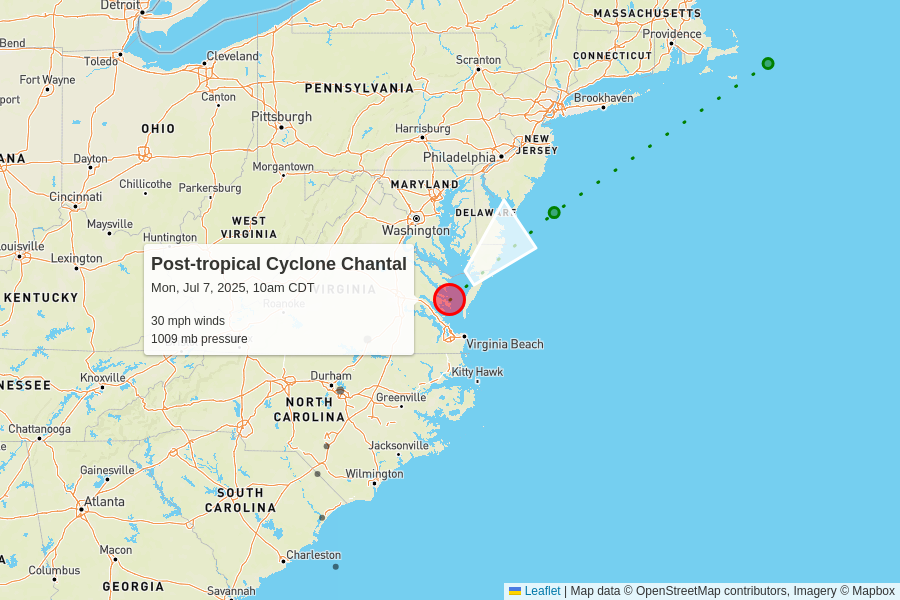
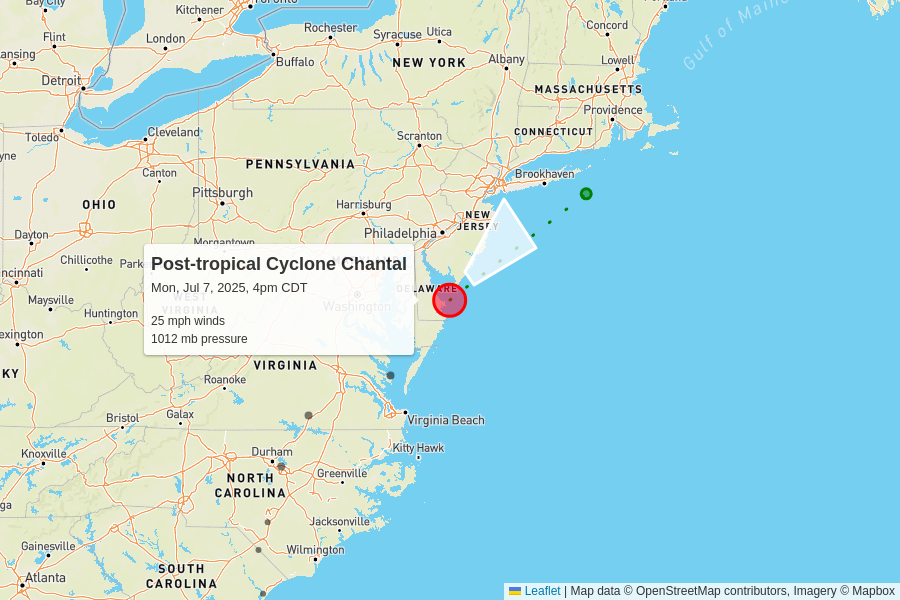
automatic update

diff --git a/docs/index.html b/docs/index.html
@@ -102,7 +102,7 @@
         <td colspan="6" class="storm category-0" >
           <h2>
             Post-tropical Cyclone Chantal
-            <p class="updated">last updated <span data-time>2025-07-07T15:00:00.000Z</span></p>
+            <p class="updated">last updated <span data-time>2025-07-07T21:00:00.000Z</span></p>
           </h2>
         </td>
       </tr>
@@ -117,10 +117,10 @@
       </tr>
       <tr>
         <td class="spacer"></td>
-        <td>30 mph<br>0 mph since last update</td>
-        <td>1009 mb<br>0 mb since last update</td>
+        <td>25 mph<br>-5 mph since last update</td>
+        <td>1012 mb<br>+3 mb since last update</td>
         <td>
-          17 mph to the northeast
+          21 mph to the northeast
           <br/>
           <span style="display: inline-block; font-size: 1.5em; transform: rotate(50deg);">↑</span>
         </td>
